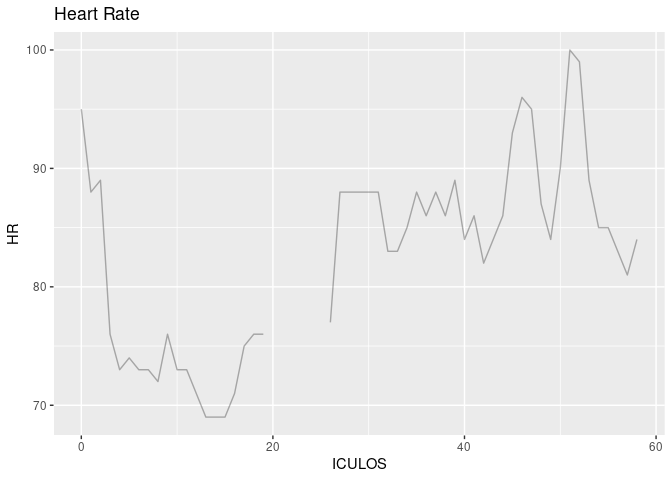
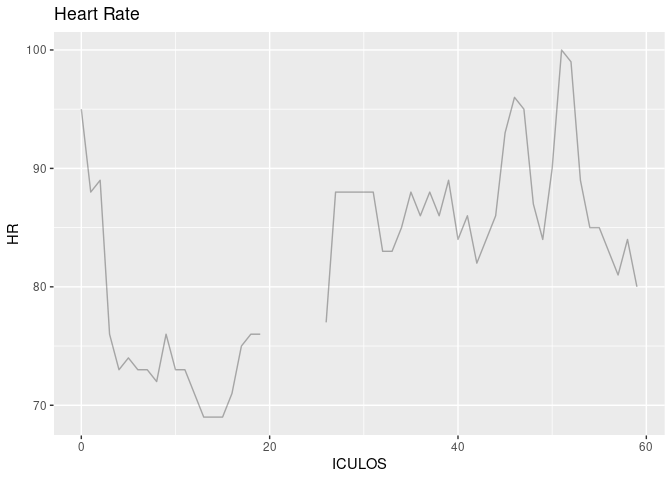
Updated report

diff --git a/A7.md b/A7.md
@@ -21,7 +21,7 @@ most_recent_data <- new_data %>%
 
 Date and time of the report
 
-    [1] "2023-04-09 04:14:17 UTC"
+    [1] "2023-04-09 05:12:12 UTC"
 
 Patient who have sepsis right now
 
@@ -33,7 +33,7 @@ most_recent_data %>% filter(SepsisLabel == 1) %>% select(PatientID, HR, Temp, Re
     # Groups:   PatientID [1]
       PatientID    HR  Temp  Resp
       <chr>     <dbl> <dbl> <dbl>
-    1 000346       84    NA    16
+    1 000346       80    NA    17
 
 Plots for patients who have sepsis
 
@@ -87,7 +87,7 @@ Table <- new_data %>%
      1 000073         -4    NA             2
      2 000135         10     0.100         0
      3 000287         NA    NA            NA
-     4 000346          3    NA             0
+     4 000346         -4    NA             1
      5 000617         NA    NA            NA
      6 001145          1    -0.200        -2
      7 001467        -13    NA             3
